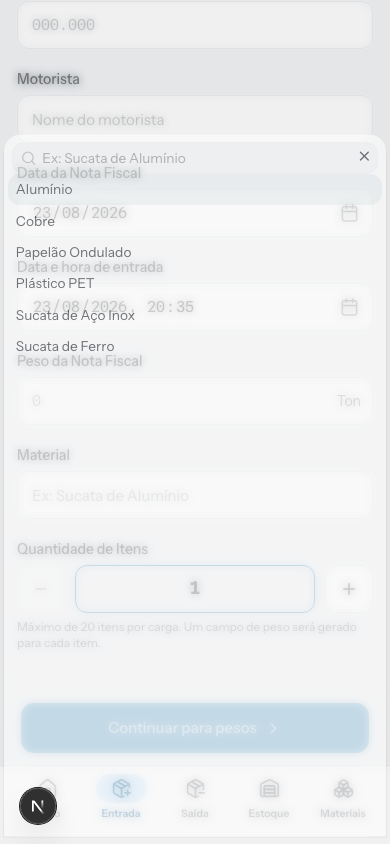
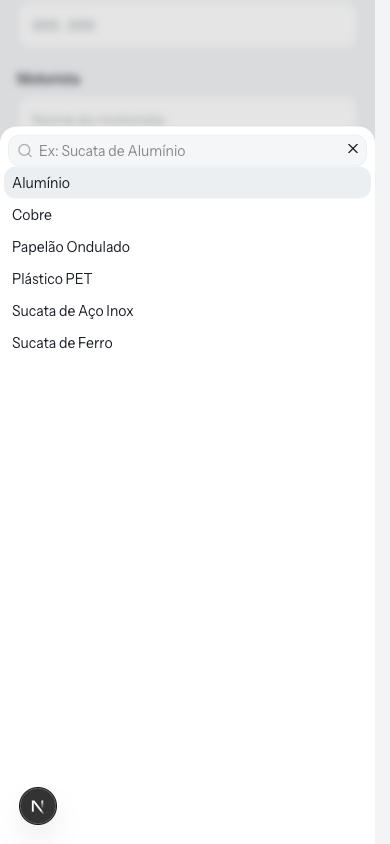
fix(load-intake): keep the mobile material sheet opaque without breaking dismiss
The review found the mobile bottom sheet rendering as a transparent,
partial-height panel with option text overlapping the form fields
underneath — caused by DialogContent's default fade/zoom-in-95 enter
transition. Pin opacity/scale to their settled values (fade-in-100,
zoom-in-100, and the -out equivalents) so the panel is opaque and
full-size for every frame.

A translate-based slide-in-from-bottom/slide-out-to-bottom variant was
tried too but made Base UI's dialog dismiss itself ~100ms after opening
in a real browser (not caught by the jsdom test suite) — dropped in
favor of the fade/zoom pins alone, verified interactively via Playwright
(open, escape-dismiss + focus restore, reopen, select) with no
regression.

Recaptures docs/evidence/344-material-mobile-sheet.png showing the
opaque full-height sheet.

diff --git a/components/loads/material-combobox.tsx b/components/loads/material-combobox.tsx
@@ -213,8 +213,29 @@ export function MaterialCombobox({
       />
       {isMobile ? (
         <Dialog open={open} onOpenChange={handleSheetOpenChange}>
+          {/*
+           * `DialogContent`'s default enter/exit animation (inherited from
+           * `components/ui/dialog.tsx`) fades opacity in from 0 and scales up
+           * from 95% over the transition. For a bottom sheet that reads as a
+           * momentary "double exposure" — the semi-transparent, slightly
+           * undersized panel lets the page behind it show through, and its
+           * option rows visually overlap the form fields at the same screen
+           * position until the transition settles a beat later. `fade-in-100`
+           * / `zoom-in-100` (and the `-out` equivalents) pin opacity/scale at
+           * their settled values for the whole transition, so the panel is
+           * fully opaque and full-size for every frame.
+           *
+           * A translate-based `slide-in-from-bottom` / `slide-out-to-bottom`
+           * replacement was tried too, but it made Base UI's dialog dismiss
+           * itself ~100ms after opening in a real browser (verified via
+           * Playwright, not reproducible in the jsdom test suite) — most
+           * likely an interaction between that keyframe and the dialog's
+           * open-animation-completion detection. Sticking to the fade/zoom
+           * pins alone avoids that regression while still fixing the
+           * reported overlap.
+           */}
           <DialogContent
-            className="top-auto bottom-0 left-0 h-[85dvh] max-h-[85svh] w-full max-w-full translate-x-0 translate-y-0 gap-0 rounded-b-none rounded-t-2xl p-0 sm:max-w-full"
+            className="top-auto bottom-0 left-0 h-[85dvh] max-h-[85svh] w-full max-w-full translate-x-0 translate-y-0 gap-0 rounded-b-none rounded-t-2xl p-0 sm:max-w-full fade-in-100 zoom-in-100 fade-out-100 zoom-out-100"
             showCloseButton
           >
             <DialogHeader className="sr-only">
